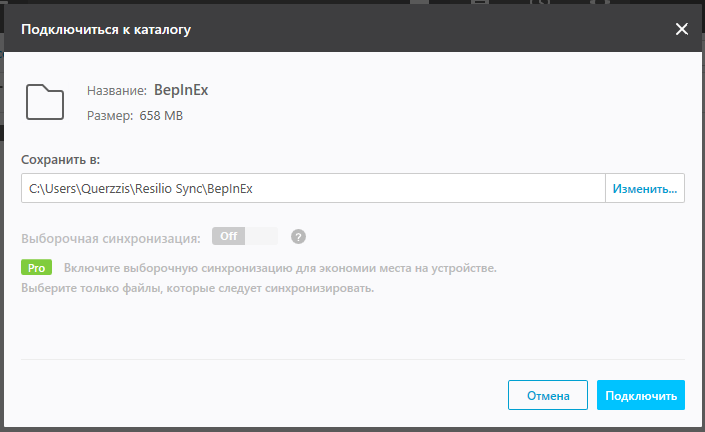
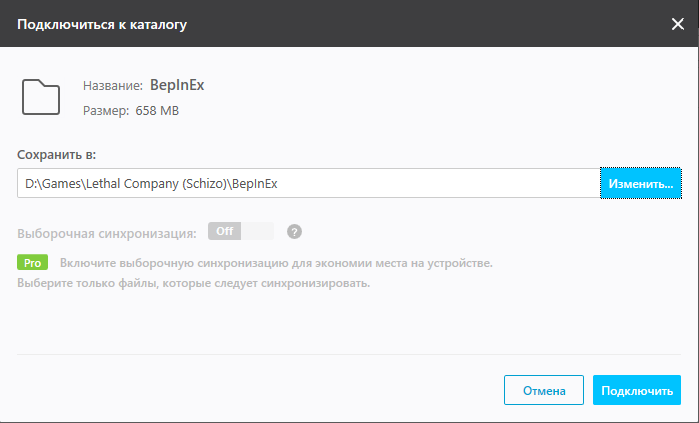
mau

Changed region(s): [[0.0, 0.0, 1.0, 1.0], [0.1202, 0.1844, 0.3004, 0.2766], [0.4206, 0.5225, 0.4506, 0.5532]]

diff --git a/index.html b/index.html
@@ -27,16 +27,20 @@
         <h4>2.2 Перейти по <a href="https://link.resilio.com/#f=BepInEx&sz=69E7&t=1&s=DLCZPY4DQI7DSGNNQ72UDFMS6OP23NAH&i=C6XJHCRF3J4VWSQOD3TPJOVRK6K7NYPWX&v=2.7&a=2" target="_blank" style="color: greenyellow;">ССЫЛКЕ</a></h4>
         <h4>2.3 Нажать на красную кнопку</h4>
         <img src="img/2.png">
-        <h4>2.4 Когда откроется программа нажать кнопку "Изменить..." или если во время установки игры не менялся путь к игре, то скопируй <button onclick="myFunction()">ЖМЯК</button> и вставь в поле "Сохранить в:"</h4>
+        <h4>2.4 Когда откроется программа, то или<br>1. Нажать кнопку "Изменить..." и указать путь до игры (пример пути указан на скриншоте) или<br>2. Если во время установки игры не менялся путь к игре, то<button onclick="myFunction()">ЖМЯК СЮДА</button>и<br>вставь в поле "Сохранить в:"</h4>
         <img src="img/3.png">
-        <h4>2.5 Указать путь до "корневой" папки игры и выбрать папку BepInEx</h4>
+        <h4>2.5 Нажать "Подключить" и ждать когда @Querzzis даст доступ</h4>
+        <h4>2.6 Запустить игру и радоваться</h4>
+        <h2>3. Как обновить сборку модов</h2>
+        <h4>Все очень просто. Нужно запустить Resilio Sync и дождать когда все файлы синхронизируются</h4>
+        
 
     </div>
     <footer>
         <h3>Вступай к нам</h3>
         <iframe src="https://discord.com/widget?id=1197938900417659000&theme=dark" width="350" height="500" allowtransparency="true" frameborder="0" sandbox="allow-popups allow-popups-to-escape-sandbox allow-same-origin allow-scripts"></iframe>
         <h6 class="note">Created by Querzzis AKA break.pink</h6>
-        <h6 class="note">МЯУУ</h6>
+        <h6 class="note">МЯУ</h6>
     </footer>
 </body>
 </html>

diff --git a/css/style.css b/css/style.css
@@ -28,7 +28,7 @@ body {
     background-color: rgb(50, 50, 50, 0.9);
     border-radius: 25px;
     text-align: center;
-    line-height: 15px;
+    line-height: 17px;
 }
 
 h1 {
@@ -92,6 +92,13 @@ iframe {
 a {
     text-decoration: none;
     color: pink;
+}
+
+button {
+    border-style: hidden;
+    background-color: transparent;
+    color: greenyellow;
+    cursor: pointer;
 }
 
 .unselectable {

diff --git a/js/copy.js b/js/copy.js
@@ -1,3 +1,4 @@
 function myFunction() {
     navigator.clipboard.writeText('C:\\Games\\Lethal Company (Schizo)\\BepInEx')
+    alert("Текст скопирован!")
 }
